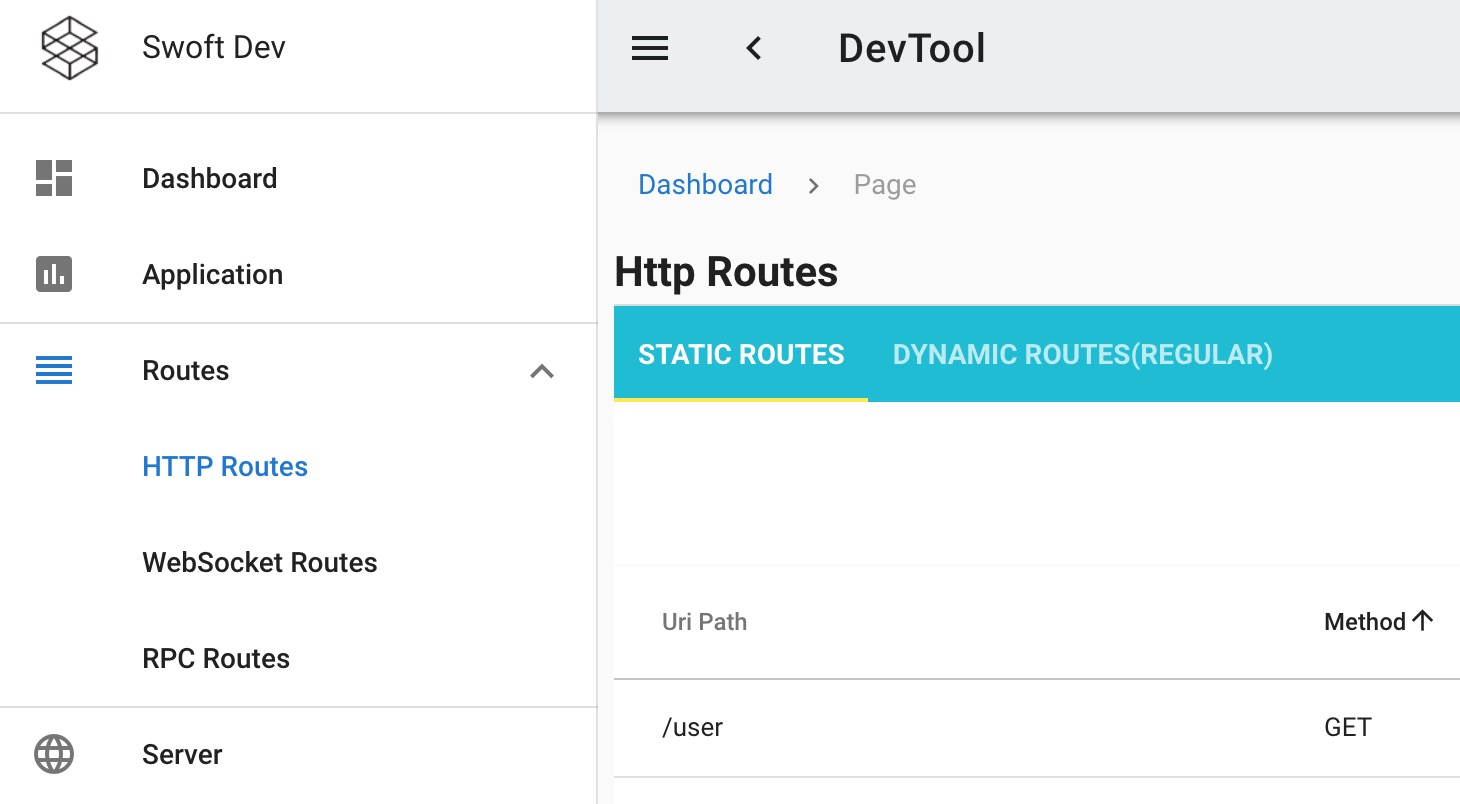
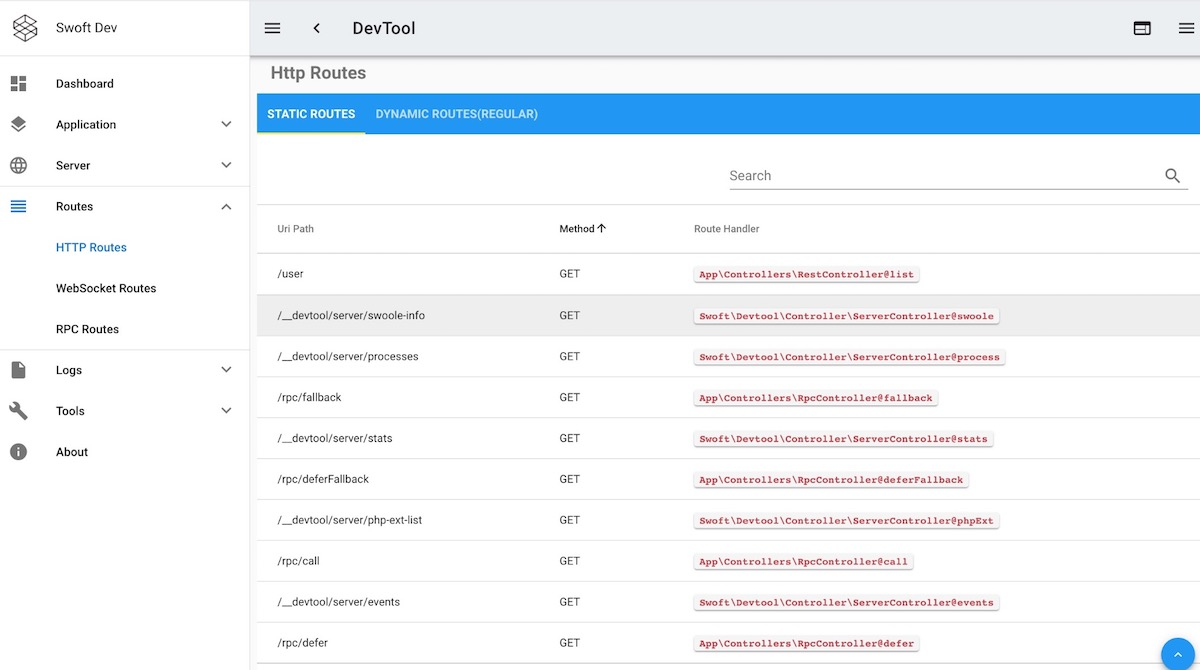
add more pages. some modify

diff --git a/web/src/views/server/ServerEvents.vue b/web/src/views/server/ServerEvents.vue
@@ -7,8 +7,9 @@
         md6
       >
         <v-card>
-          <div class="pa-2">
-            <h3>Swoft Server</h3>
+          <v-card-title class="title">Swoft Server</v-card-title>
+          <v-divider></v-divider>
+          <v-card-text class="pa-2">
             <div v-for="(items, name) in server" :key="name" class="px-1">
               <strong>{{ name }}</strong>
               <ul class="list px-1">
@@ -17,30 +18,52 @@
                 </li>
               </ul>
             </div>
-          </div>
+          </v-card-text>
         </v-card>
       </v-flex>
       <v-flex
         xs12
         md6
       >
-        <v-card class="pa-2">
-          <h3>Swoole Server</h3>
-          <ul class="list">
-            <li v-for="(item, name) in swoole.server" :key="name" v-if="swoole.server">
-              {{ name }} - <code>{{ item }}</code>
-            </li>
-          </ul>
+        <v-card>
+          <v-card-title class="title">Swoole Server</v-card-title>
+          <v-divider></v-divider>
+          <v-card-text>
+            <v-subheader>Main Server</v-subheader>
+            <v-divider></v-divider>
+            <table class="table">
+              <thead>
+              <tr>
+                <th>Name</th><th>Value</th>
+              </tr>
+              </thead>
+              <tbody>
+              <tr v-for="(val, name) in swoole.server" :key="name">
+                <td>{{ name }}</td>
+                <td><code>{{ val }}</code></td>
+              </tr>
+              </tbody>
+            </table>
 
-          <h3>Swoole Port</h3>
-          <div v-for="(items, name) in swoole.port" :key="name" v-if="swoole.port" class="px-1">
-            <strong>port {{ name }}</strong>
-            <ul class="list px-1">
-              <li v-for="(item, key) in items">
-                {{ key }} - <code>{{ item }}</code>
-              </li>
-            </ul>
-          </div>
+            <v-subheader>Attached Port Server</v-subheader>
+            <div v-for="(items, name) in swoole.port" :key="name" v-if="swoole.port" class="px-1">
+              <h4 class="pa-1"> - Port {{ name }}</h4>
+              <v-divider></v-divider>
+              <table class="table">
+                <thead>
+                  <tr>
+                    <th>Name</th><th>Value</th>
+                  </tr>
+                </thead>
+                <tbody>
+                  <tr v-for="(val, name) in items" :key="name">
+                    <td>{{ name }}</td>
+                    <td><code>{{ val }}</code></td>
+                  </tr>
+                </tbody>
+              </table>
+            </div>
+          </v-card-text>
         </v-card>
       </v-flex>
     </v-layout>
@@ -48,12 +71,13 @@
 </template>
 
 <script>
+  import {VDataTable} from 'vuetify'
   import * as VCard from 'vuetify/es5/components/VCard'
   import {getServerEvents} from '../../libs/api-services'
 
   export default {
     name: 'ServerEvents',
-    components: {...VCard},
+    components: {VDataTable, ...VCard},
     data() {
       return {
         swoole: {},

diff --git a/web/src/router/routes.js b/web/src/router/routes.js
@@ -6,8 +6,12 @@ export default [{
   component: () => import('@/views/Dashboard.vue')
 }, {
   path: URI_PREFIX + '/http/routes',
-  name: 'Http Routes',
+  name: 'HTTP Routes',
   component: () => import('../views/http/HttpRoutes.vue')
+}, {
+  path: URI_PREFIX + '/http/middles',
+  name: 'HTTP Middleware',
+  component: () => import('../views/http/HttpMiddleware.vue')
 }, {
   path: URI_PREFIX + '/app/info',
   name: 'Application Info',
@@ -50,15 +54,19 @@ export default [{
   component: () => import('../views/ws/WsTest.vue')
 }, {
   path: URI_PREFIX + '/rpc/routes',
-  name: 'Rpc Routes',
+  name: 'RPC Routes',
   component: () => import('../views/rpc/RpcRoutes.vue')
+}, {
+  path: URI_PREFIX + '/rpc/middles',
+  name: 'RPC Middleware',
+  component: () => import('../views/rpc/RpcMiddleware.vue')
 }, {
   path: URI_PREFIX + '/code/gen',
   name: 'Generator',
   component: () => import('../views/gen/GenView.vue')
 }, {
   path: URI_PREFIX + '/run/trace',
-  name: 'RunTrace',
+  name: 'Run Tracing',
   component: () => import('../views/app/RunTrace.vue')
 }, {
   path: URI_PREFIX + '/app/logs',

diff --git a/web/src/views/parts/SimpleTable.vue b/web/src/views/parts/SimpleTable.vue
@@ -1,0 +1,26 @@
+<template>
+  <table class="table">
+    <thead>
+    <tr>
+      <th>Name</th>
+      <th>Value</th>
+    </tr>
+    </thead>
+    <tbody>
+    <tr v-for="(val, name) in env" :key="name">
+      <td>{{ name }}</td>
+      <td><code>{{ val }}</code></td>
+    </tr>
+    </tbody>
+  </table>
+</template>
+
+<script>
+  export default {
+    name: 'simple-table'
+  }
+</script>
+
+<style scoped>
+
+</style>

diff --git a/web/src/libs/sidebar.js b/web/src/libs/sidebar.js
@@ -15,6 +15,12 @@ export default [{
   }, {
     title: 'Registered Events',
     href: '/app/events'
+  }, {
+    title: 'HTTP Middleware',
+    href: '/http/middles'
+  }, {
+    title: 'RPC Middleware',
+    href: '/rpc/middles'
   }]
 }, {
   icon: 'language',

diff --git a/web/src/views/http/HttpMiddleware.vue b/web/src/views/http/HttpMiddleware.vue
@@ -1,0 +1,13 @@
+<template>
+
+</template>
+
+<script>
+  export default {
+    name: 'http-middleware'
+  }
+</script>
+
+<style scoped>
+
+</style>

diff --git a/web/src/views/rpc/RpcMiddleware.vue b/web/src/views/rpc/RpcMiddleware.vue
@@ -1,0 +1,13 @@
+<template>
+
+</template>
+
+<script>
+  export default {
+    name: 'rpc-middleware'
+  }
+</script>
+
+<style scoped>
+
+</style>

diff --git a/web/src/views/app/AppBeans.vue b/web/src/views/app/AppBeans.vue
@@ -1,0 +1,13 @@
+<template>
+
+</template>
+
+<script>
+  export default {
+    name: 'app-beans'
+  }
+</script>
+
+<style scoped>
+
+</style>

diff --git a/src/Controller/AppController.php b/src/Controller/AppController.php
@@ -168,34 +168,48 @@ class AppController
     /**
      * get all registered http middleware list
      * @RequestMapping(route="http/middles", method=RequestMethod::GET)
+     * @param Request $request
      * @return array
      */
-    public function httpMiddles(): array
+    public function httpMiddles(Request $request): array
     {
         /** @var \Swoft\Http\Server\ServerDispatcher $dispatcher */
         $dispatcher = \bean('serverDispatcher');
 
-        if (\method_exists($dispatcher, 'getMiddlewares')) {
+        $type = (int)$request->query('type');
+
+        // 1 only return user's
+        if ($type === 1) {
             return $dispatcher->getMiddlewares();
         }
 
-        return [];
+        return $dispatcher->requestMiddleware();
     }
 
     /**
      * get all registered rpc middleware list
      * @RequestMapping(route="rpc/middles", method=RequestMethod::GET)
+     * @param Request $request
      * @return array
      */
-    public function rpcMiddles(): array
+    public function rpcMiddles(Request $request): array
     {
-        /** @var \Swoft\Rpc\Server\ServiceDispatcher $dispatcher */
-        $dispatcher = \bean('serviceDispatcher');
+        $bean = 'ServiceDispatcher';
 
-        if (\method_exists($dispatcher, 'getMiddlewares')) {
+        if (!App::hasBean($bean)) {
+            return [];
+        }
+
+        /** @var \Swoft\Rpc\Server\ServiceDispatcher $dispatcher */
+        $dispatcher = \bean($bean);
+
+        $type = (int)$request->query('type');
+
+        // 1 only return user's
+        if ($type === 1) {
             return $dispatcher->getMiddlewares();
         }
 
-        return [];
+        return $dispatcher->requestMiddleware();
     }
 }
